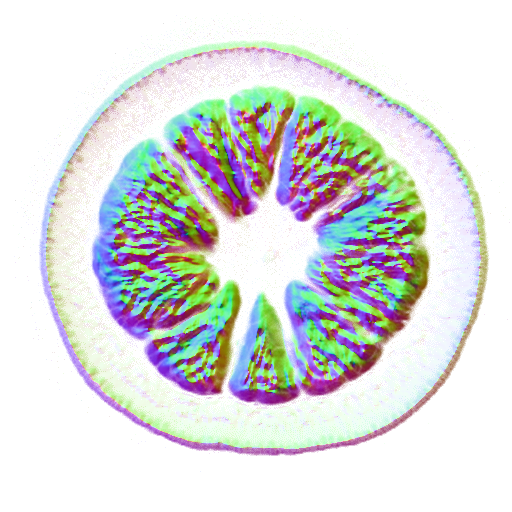
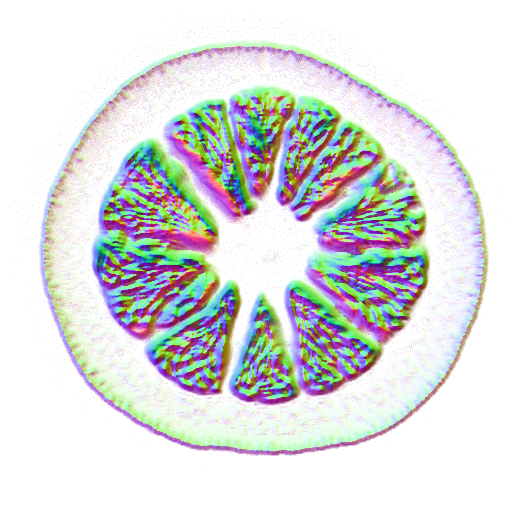
Improve normals and rendering there of

diff --git a/browser/ctscan/viewer.js b/browser/ctscan/viewer.js
@@ -9,8 +9,10 @@ var MriRender_Create = function (scene) {
 
     const vertexShader = `
         varying vec3 vUVW;
+        varying vec3 cameraDir;
         void main() {
             vec4 objectInWorld = modelMatrix * vec4(position, 1.0);
+            cameraDir = objectInWorld.xyz - cameraPosition;
             vUVW = vec3( uv, objectInWorld.z / -48.14159 );
             gl_Position = projectionMatrix * modelViewMatrix * vec4(position, 1.0);
         }
@@ -21,6 +23,7 @@ var MriRender_Create = function (scene) {
         uniform float time;
         uniform float time_ripple;
         varying vec3 vUVW;
+        varying vec3 cameraDir;
         void main() {
             vec4 texColor = texture2D(texture1, vUVW.xy);
 
@@ -28,20 +31,25 @@ var MriRender_Create = function (scene) {
             
             vec3 one = vec3(1.0, 1.0, 1.0);
             vec3 normal = ( texColor.rgb - ( one * 0.5 ) ) * 2.0;
+            normal = normal.bgr * vec3(1.0, -1.0, 1.0);
             normal = normalize(normal);
+            float NDotV = dot(normalize(cameraDir), normal);
+            NDotV = mix( 0.25, 1.0, pow( abs(NDotV), 0.25 ) );
 
             float ripple_axis = vUVW.z; // -vUv.y; // - texColor.g; // -vUv.y; // - texColor.r; // up-down:  -vUv.y
             float ripple = cos( ( time * 1.0 ) + (ripple_axis * 3.14159 * 1.0 ) );
             vec3 ripple_dir = normalize( vec3(cos(ripple), sin(ripple), 1.0) );
 
-            float highlight = mix( 1.0, pow( abs( ripple ), 16.0 ), time_ripple );
+            float highlight = mix( 1.0, pow( abs( ripple ), 32.0 ), time_ripple );
             //float alpha = ( texColor.a ) * mix( 0.5, 1.0, highlight );
-            float alpha = pow( texColor.a, mix( 3.0, 1.0, highlight ) ) * mix( 0.125, 1.0, highlight );
+            float alpha = pow( texColor.a, mix( 3.0, 1.0, highlight ) ) * mix( 0.05, 1.0, highlight ); // * NDotV;
             //float alpha = texColor.a; // pow( texColor.a, mix( 3.0, 1.0, highlight ) ) * mix( 0.25, 1.0, highlight );
             float shade = alpha; //texColor.a;
 
             vec3 orange = vec3(1.0, 0.61, 0.0);
-            vec3 lit = orange * shade;
+            //vec3 lit = orange * shade;
+            //vec3 lit = abs(normal) * shade;
+            vec3 lit = orange * shade * abs( NDotV );
             // lit.b = mix( lit.b, 1.0, highlight );
             
             gl_FragColor = vec4(lit.r, lit.g, lit.b, alpha);

diff --git a/py/examples/ndscene_3dvolume.py b/py/examples/ndscene_3dvolume.py
@@ -34,7 +34,8 @@ def flood_fill_out(volume):
     opacities = volume[:,:,:,1]
 
     unit_opacity = opacities.astype(float) / 255.0
-    unit_opacity = uniform_filter(unit_opacity, size=7)
+    for layer_index in range(unit_opacity.shape[0]):
+        unit_opacity[layer_index] = uniform_filter(unit_opacity[layer_index], size=7)
     normals = numpy.gradient(unit_opacity)
     normals = [numpy.expand_dims(n,axis=-1) for n in normals]
     normals[0] = normals[0] / (float(volume.shape[1]) / float(volume.shape[0]))
